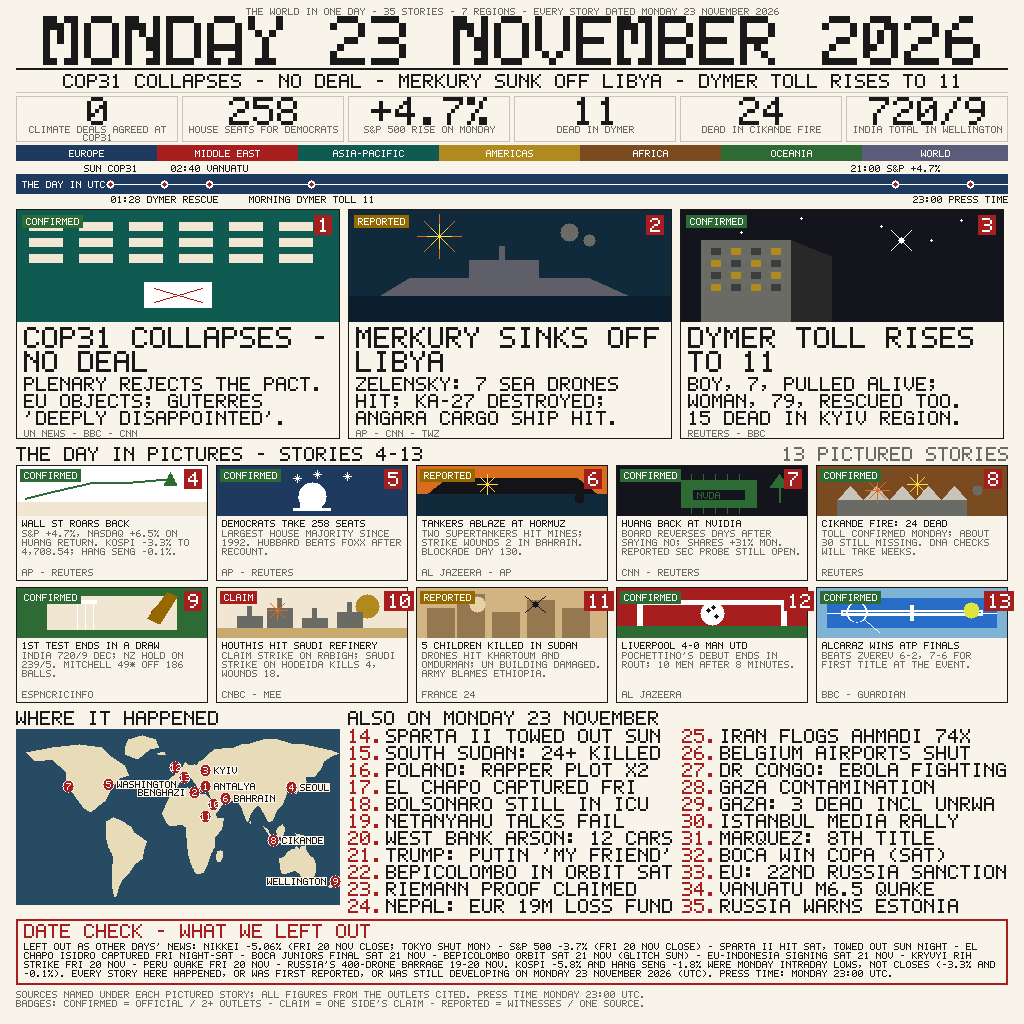
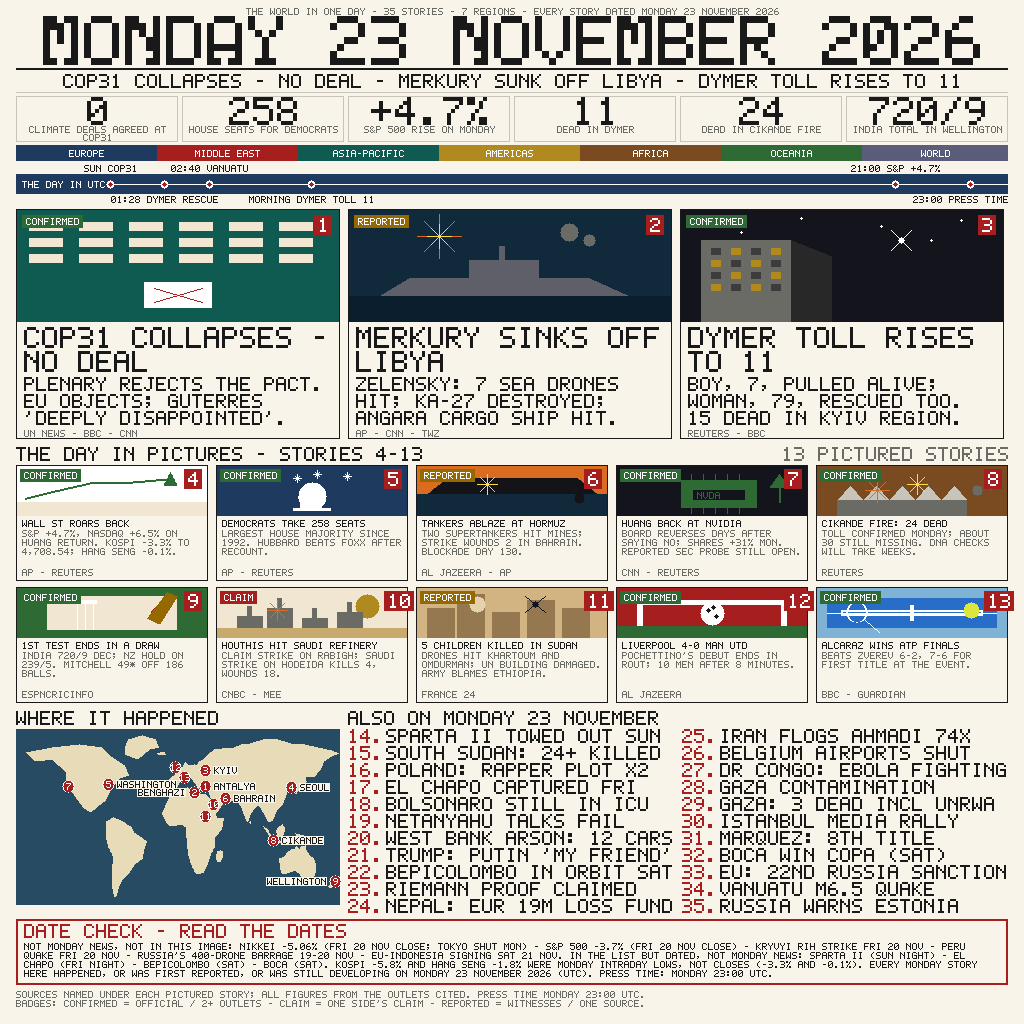
v3.1: DATE CHECK wording — resolve also-list overlap (parent audit)
v3 DATE CHECK said 'WHAT WE LEFT OUT' while 4 of its items (Sparta II,
El Chapo, BepiColombo, Boca) are IN the also-list with date tags — the same
self-contradiction class as 22 Nov rank 3's ICJ Myanmar error. Now split
into two clauses: 'Not Monday news, not in this image' (6 items genuinely
absent) vs 'In the list but dated, not Monday news' (4 items, with dates).
Dating sentence fixed the same way: 'Every Monday story here...'.
No other pixels changed.

Changed region(s): [[0.0312, 0.9062, 0.9375, 0.9688]]

diff --git a/main.py b/main.py
@@ -733,12 +733,12 @@ ALSO = [
     (35, "RUSSIA WARNS ESTONIA"),
 ]
 
-DATECHECK = ("Left out as other days' news: Nikkei -5.06% (Fri 20 Nov close; Tokyo shut Mon) - "
-    "S&P 500 -3.7% (Fri 20 Nov close) - Sparta II hit Sat, towed out Sun night - El Chapo Isidro "
-    "captured Fri night-Sat - Boca Juniors final Sat 21 Nov - BepiColombo orbit Sat 21 Nov (glitch Sun) - "
-    "EU-Indonesia signing Sat 21 Nov - Kryvyi Rih strike Fri 20 Nov - Peru quake Fri 20 Nov - "
-    "Russia's 400-drone barrage 19-20 Nov. Kospi -5.8% and Hang Seng -1.8% were Monday intraday lows, "
-    "not closes (-3.3% and -0.1%). Every story here happened, or was first reported, or was "
+DATECHECK = ("Not Monday news, not in this image: Nikkei -5.06% (Fri 20 Nov close; Tokyo shut Mon) - "
+    "S&P 500 -3.7% (Fri 20 Nov close) - Kryvyi Rih strike Fri 20 Nov - Peru quake Fri 20 Nov - "
+    "Russia's 400-drone barrage 19-20 Nov - EU-Indonesia signing Sat 21 Nov. In the list but dated, "
+    "not Monday news: Sparta II (Sun night) - El Chapo (Fri night) - BepiColombo (Sat) - Boca (Sat). "
+    "Kospi -5.8% and Hang Seng -1.8% were Monday intraday lows, "
+    "not closes (-3.3% and -0.1%). Every Monday story here happened, or was first reported, or was "
     "still developing on Monday 23 November 2026 (UTC). Press time: Monday 23:00 UTC.")
 
 
@@ -858,7 +858,7 @@ def build():
     # date check
     dy = 919
     cv.rect(mx, dy, cw, 66, RED, 2)
-    draw_text(cv, mx + 8, dy + 5, "DATE CHECK - WHAT WE LEFT OUT", 2, RED)
+    draw_text(cv, mx + 8, dy + 5, "DATE CHECK - READ THE DATES", 2, RED)
     text_block(cv, mx + 8, dy + 24, DATECHECK, 1, INK, cw - 16, 9)
 
     # footer (2 lines)
